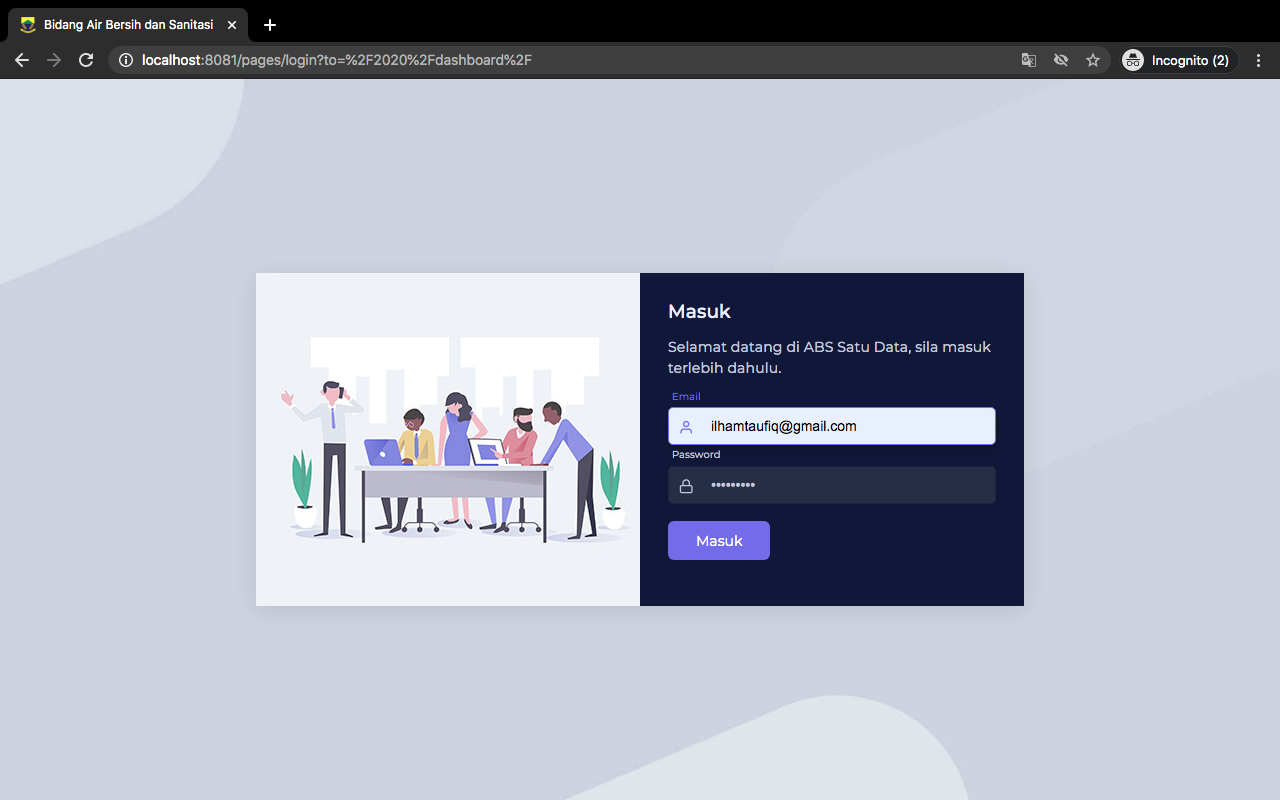
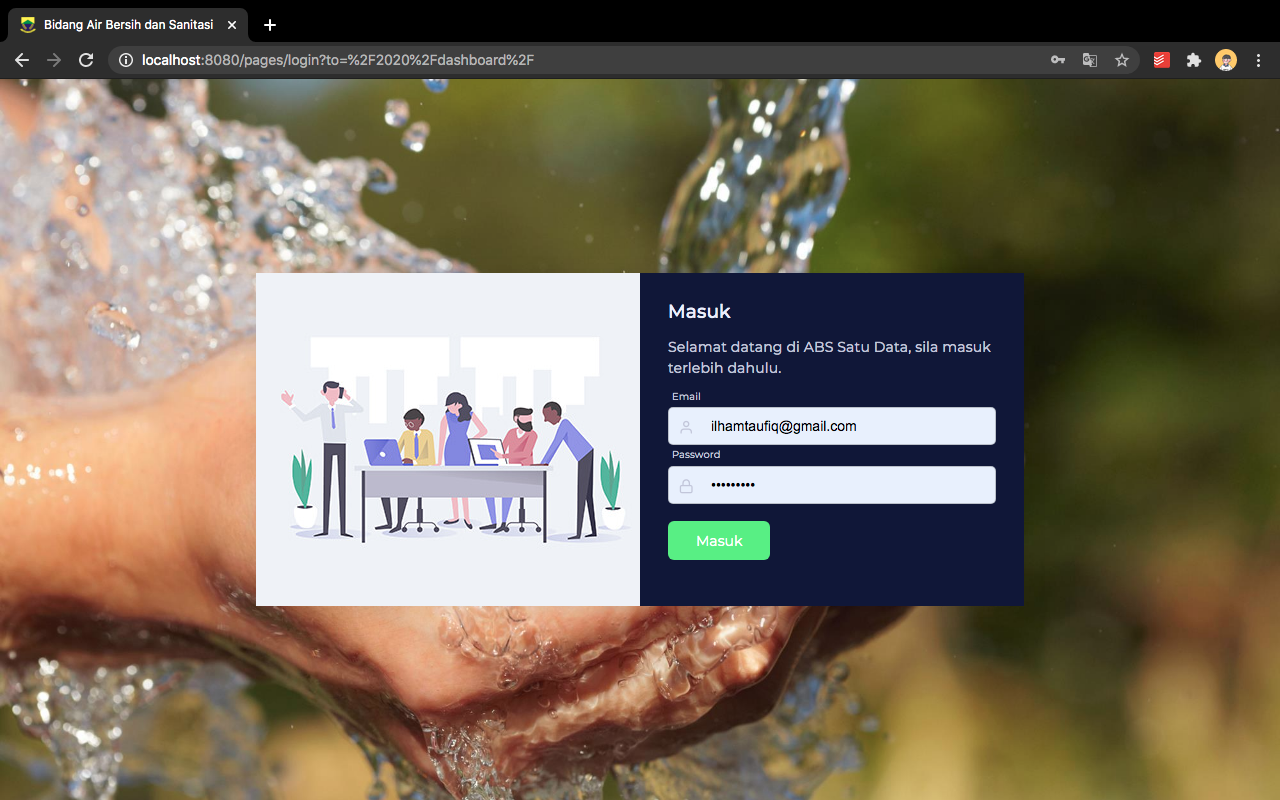
update lagi

diff --git a/src/views/pages/Login.vue b/src/views/pages/Login.vue
@@ -64,8 +64,8 @@ import SocialLogin from '../components/extra-components/SocialLogin';
 export default {
     data() {
         return {
-            email: '485cjr@gmail.com',
-            password: 'cianjur22',
+            email: '',
+            password: '',
             checkbox_remember_me: false
         }
     },

diff --git a/src/assets/scss/vuesax/_misc.scss b/src/assets/scss/vuesax/_misc.scss
@@ -14,7 +14,7 @@ ul,ol {
 }
 
 .bg-img{
-    background-image: url("../images/pages/vuesax-login-bg.jpg");
+    background-image: url("../images/logo/login-bg.jpg");
     background-position: center;
     background-repeat: no-repeat;
     background-size: cover;
